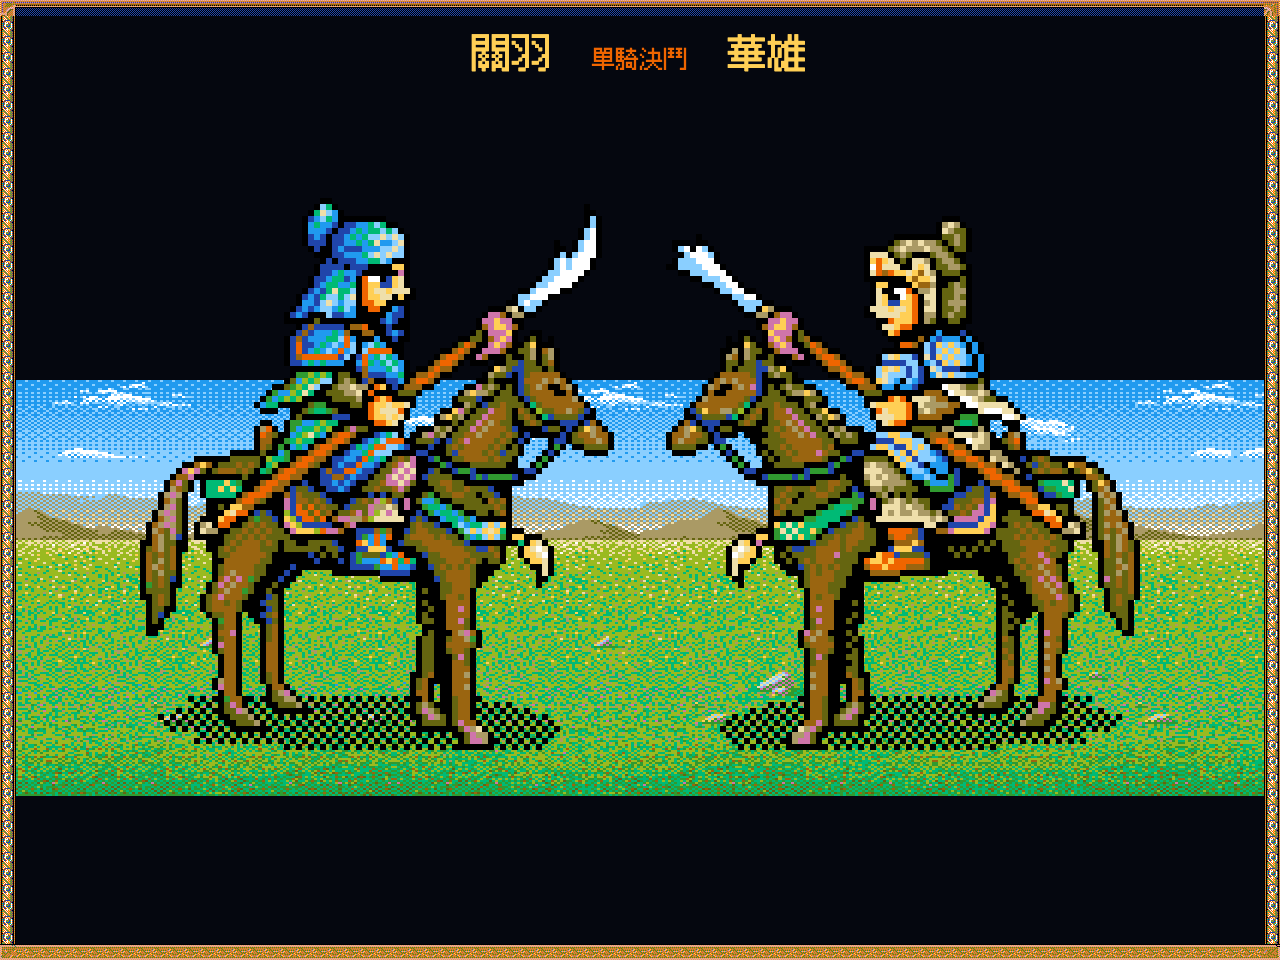
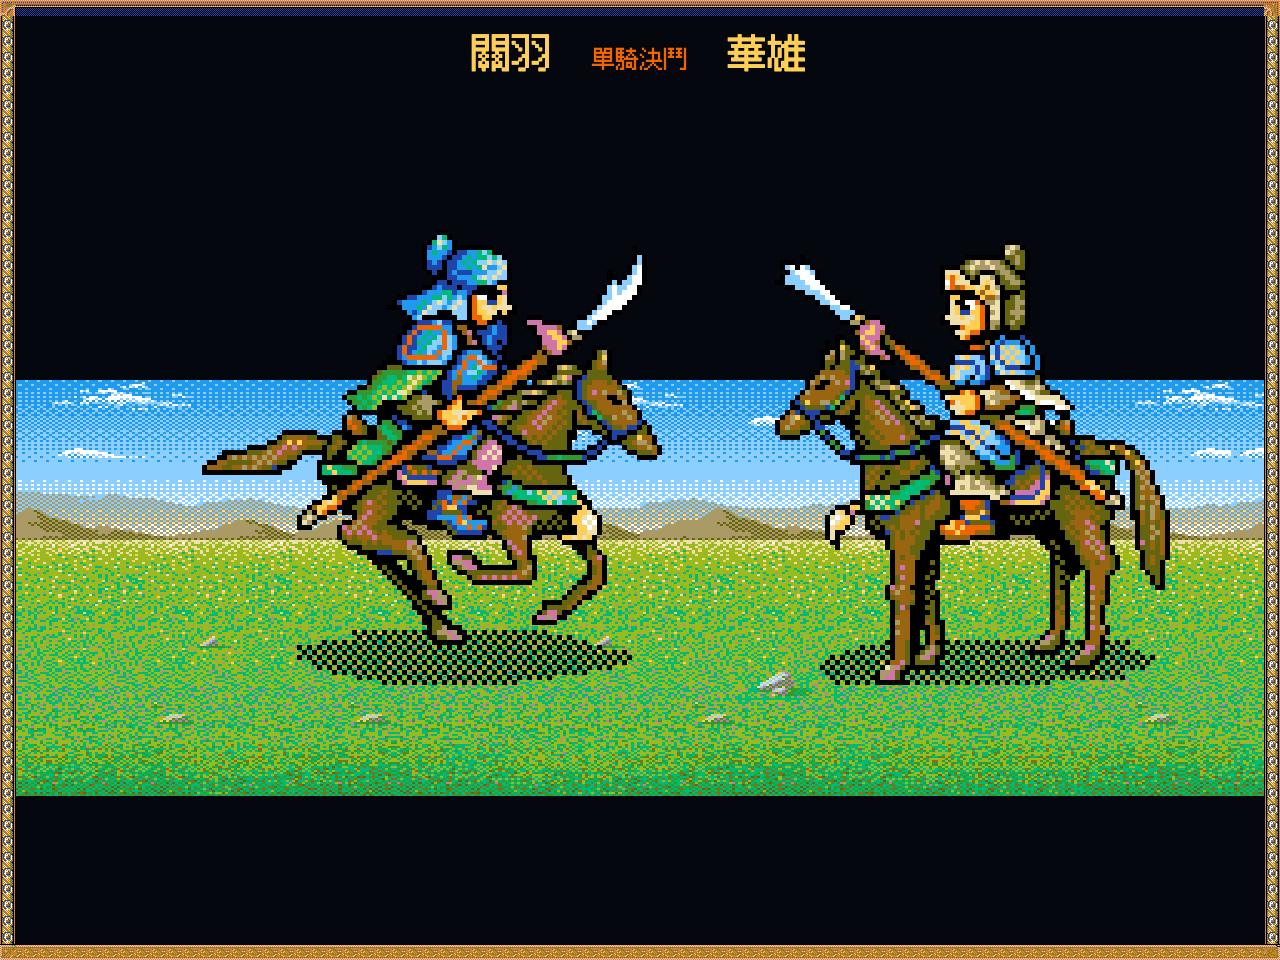
feat: 单挑加上冲锋位移、交锋火花与败走
- charge 从列阵位压上（带蹄声），strike 前先压上、收招退回，flee 调头跑出画面
- 两骑之间的火花按出手闪一次，连击每下都闪；fall 被击退人马下沉再淡出
- 单挑画布从 288 缩到 240，两侧留出冲锋的余地
- 重拍 19-duel 截图；__yjz 暴露 duel 方便调试

Changed region(s): [[0.0938, 0.2188, 0.9375, 0.7812]]

diff --git a/src/main.ts b/src/main.ts
@@ -273,7 +273,8 @@ async function playDuel(aId: string, bId: string, acts: DuelAct[]) {
   el.innerHTML = `<div class="terrain" style="background-image:url(/assets/duel/terrain_${terrain}.png)"></div>` +
     `<canvas class="left" width="${DFRAME * DSCALE}" height="${DFRAME * DSCALE}"></canvas>` +
     `<canvas class="right" width="${DFRAME * DSCALE}" height="${DFRAME * DSCALE}"></canvas>` +
-    `<div class="versus"><b>${esc(bySlot(b, 0) ? nameOf(aId) : aId)}</b><em>單騎決鬥</em><b>${esc(nameOf(bId))}</b></div>`;
+    `<div class="versus"><b>${esc(bySlot(b, 0) ? nameOf(aId) : aId)}</b><em>單騎決鬥</em><b>${esc(nameOf(bId))}</b></div>` +
+    '<div class="spark"></div>';
   el.hidden = false;
   const ctx = (sel: string) => (el.querySelector(sel) as HTMLCanvasElement).getContext('2d')!;
   const [ca, cb] = [ctx('.left'), ctx('.right')];
@@ -297,25 +298,62 @@ async function playDuel(aId: string, bId: string, acts: DuelAct[]) {
   draw(ca, ia, 0);
   draw(cb, ib, 0);
   await wait(700);
+  const spark = el.querySelector('.spark') as HTMLElement;
+  /** 交锋的火花：重启动画，让连击的每一下都闪一次。 */
+  const flash = () => {
+    spark.classList.remove('on');
+    void spark.offsetWidth;
+    spark.classList.add('on');
+  };
+  const canvasOf = (side: 'left' | 'right') => (side === 'left' ? el.querySelector('.left') : el.querySelector('.right')) as HTMLElement;
+  /** 两骑的横向位置：30 = 列阵，105 = 交锋（left 是距左边缘，right 是距右边缘）。 */
+  const [HOME, MEET] = [30, 105];
+  const shift = (side: 'left' | 'right', px: number, ms: number) => {
+    const c = canvasOf(side);
+    const d = Math.max(1, ms * (scene.speed || 1));
+    c.style.transition = `${side} ${d}ms cubic-bezier(0.2, 0.7, 0.3, 1), top ${d}ms ease-in, opacity ${d}ms linear`;
+    c.style.setProperty(side, `${px}px`);
+  };
   for (const act of acts) {
     const side = act.side === 'right' ? 'right' : 'left';
-    if (act.act === 'charge') await play(side, [2, 3, 4], 90);
-    else if (act.act === 'strike') {
+    if (act.act === 'charge') {
+      // 冲阵：从列阵位置压上去，迈蹄帧同步，蹄声一起
+      playSfx('step', 0.7);
+      shift(side, MEET, 260);
+      await play(side, [2, 3, 4], 90);
+    } else if (act.act === 'strike') {
       const n = Math.min(3, Math.max(1, Math.round((act.n ?? 3) / 3)));
       for (let i = 0; i < n; i++) {
+        shift(side, MEET, 140); // 没冲过阵的（连续挥击）先压上
         playSfx('hit_heavy', 0.8);
+        flash();
         await play(side, [5, 6, 7, 8, 9, 10], 65);
         await wait(60);
       }
+      shift(side, HOME, 220); // 收招退回，下一轮再冲
     } else if (act.act === 'fall') {
+      // 落马：被击退、人马下沉，最后一帧淡出
       playSfx('retreat', 0.8);
+      shift(side, HOME - 22, 420);
+      canvasOf(side).style.top = '156px';
       show(side, 11);
       await wait(180);
       show(side, 12);
       await wait(220);
       show(side, 14);
       await wait(320);
-    } else if (act.act === 'back') await play(side, [4, 3, 2, 1], 80);
+      canvasOf(side).style.opacity = '0';
+      await wait(240);
+    } else if (act.act === 'flee') {
+      // 败走：调头跑出画面
+      playSfx('retreat', 0.8);
+      shift(side, -150, 540);
+      canvasOf(side).style.opacity = '0';
+      await play(side, [4, 3, 2], 110);
+    } else if (act.act === 'back') {
+      shift(side, HOME, 240);
+      await play(side, [4, 3, 2, 1], 80);
+    }
   }
   await wait(500);
   el.hidden = true;
@@ -1056,7 +1094,7 @@ game.events.once('ready', () => {
     if (import.meta.env.DEV) {
       // 仅开发模式：供调试与自动化测试读取状态
       if (params.has('fast')) (scene.speed = 0), (autoTalk = true);
-      Object.assign(window, { __yjz: { get b() { return b; }, get story() { return story; }, get mode() { return mode; }, scene, level: lvOf, sfx: sfxLog, sfxEnabled } });
+      Object.assign(window, { __yjz: { get b() { return b; }, get story() { return story; }, get mode() { return mode; }, scene, level: lvOf, sfx: sfxLog, sfxEnabled, duel: playDuel } });
     }
     if (demo) {
       // 演示流程的特写演员是现画的一张图集，直接放进贴图缓存，清单里按键引用

diff --git a/src/style.css b/src/style.css
@@ -122,9 +122,14 @@ img { image-rendering: pixelated; }
 #duelplay { position: absolute; inset: 0; z-index: 12; background: #05070f; overflow: hidden; }
 #duelplay[hidden] { display: none; }
 #duelplay .terrain { position: absolute; left: 0; top: 190px; width: 640px; height: 208px; background-size: 640px 208px; image-rendering: pixelated; }
-#duelplay canvas { position: absolute; top: 96px; width: 288px; height: 288px; image-rendering: pixelated; }
-#duelplay .left { left: 40px; }
-#duelplay .right { right: 40px; transform: scaleX(-1); }
+#duelplay canvas { position: absolute; top: 110px; width: 240px; height: 240px; image-rendering: pixelated; }
+#duelplay .left { left: 30px; }
+#duelplay .right { right: 30px; transform: scaleX(-1); }
+/* 交锋时两把兵器之间的火花 */
+#duelplay .spark { position: absolute; left: 50%; top: 210px; width: 176px; height: 176px; margin: -88px 0 0 -88px; pointer-events: none; opacity: 0;
+  background: radial-gradient(circle, #fffdf2 0%, #ffe9a8 24%, #ffb03a 46%, rgba(239, 101, 0, 0) 72%); }
+#duelplay .spark.on { animation: duel-spark 0.32s ease-out; }
+@keyframes duel-spark { 0% { opacity: 0.95; transform: scale(0.35); } 100% { opacity: 0; transform: scale(1.5); } }
 #duelplay .versus { position: absolute; left: 0; right: 0; top: 18px; display: flex; justify-content: center; gap: 20px; align-items: baseline; color: var(--gold); }
 #duelplay .versus b { font-size: 20px; font-weight: normal; }
 #duelplay .versus em { font-style: normal; color: var(--orange); }
